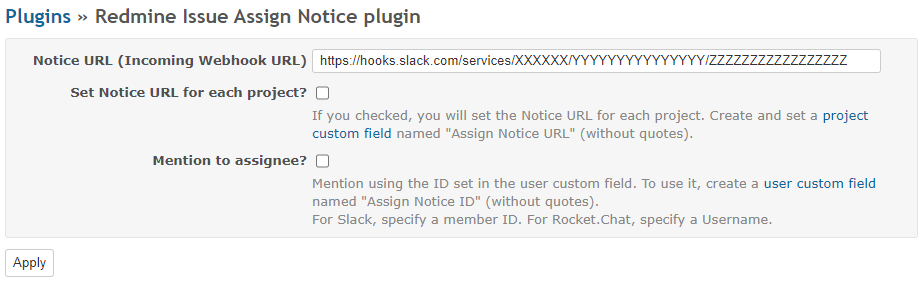
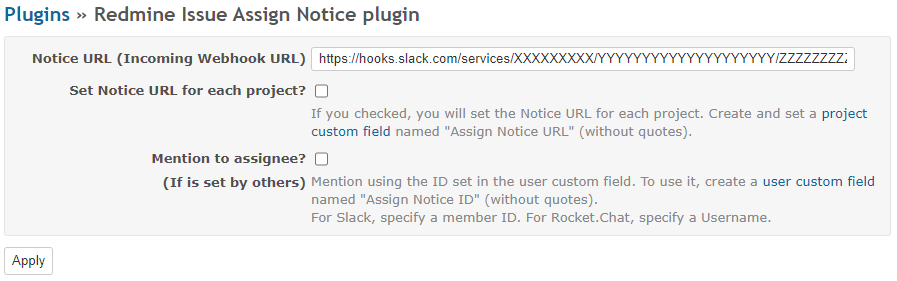
担当者自身で設定した場合はメンションを送らないように変更

diff --git a/lib/redmine_issue_assign_notice/issue_hook_listener.rb b/lib/redmine_issue_assign_notice/issue_hook_listener.rb
@@ -16,7 +16,7 @@ module RedmineIssueAssignNotice
         return
       end
 
-      notice(issue: issue, new_assgined_to: issue.assigned_to, note: issue.description)
+      notice(issue: issue, new_assgined_to: issue.assigned_to, note: issue.description, author: issue.author)
     end
 
     def redmine_issue_assign_notice_change(context={})
@@ -33,12 +33,12 @@ module RedmineIssueAssignNotice
       old_assgined_to = User.find(assign_journal.old_value.to_i) unless assign_journal.old_value.nil?
       new_assgined_to = User.find(assign_journal.value.to_i) unless assign_journal.value.nil?
 
-      notice(issue: issue, old_assgined_to: old_assgined_to, new_assgined_to: new_assgined_to, note: journal.notes)
+      notice(issue: issue, old_assgined_to: old_assgined_to, new_assgined_to: new_assgined_to, note: journal.notes, author: journal.user)
     end
 
     private
 
-    def notice(issue:, old_assgined_to: nil, new_assgined_to:, note:)
+    def notice(issue:, old_assgined_to: nil, new_assgined_to:, note:, author:)
 
       if Setting.plugin_redmine_issue_assign_notice['notice_url_each_project'] == '1'
         notice_url_field = issue.project.custom_field_values.find{ |field| field.custom_field.name == 'Assign Notice URL' }
@@ -51,16 +51,16 @@ module RedmineIssueAssignNotice
         return
       end
 
-      message = create_message(issue, old_assgined_to, new_assgined_to, note, notice_url)
+      message = create_message(issue, old_assgined_to, new_assgined_to, note, author, notice_url)
 
       Rails.logger.debug "IssueHookListener#notice message:#{message}"
 
       @client.notice(message, notice_url)
     end
 
-    def create_message(issue, old_assgined_to, new_assgined_to, note, notice_url)
+    def create_message(issue, old_assgined_to, new_assgined_to, note, author, notice_url)
 
-      message = "#{mention(new_assgined_to, notice_url)}"
+      message = "#{mention(new_assgined_to, author, notice_url)}"
       message << " " if message.length > 0
       message << "Assign changed from #{user_name old_assgined_to} to #{user_name new_assgined_to}"
       message << "\n"
@@ -69,13 +69,17 @@ module RedmineIssueAssignNotice
       message << trimming(note)
     end
 
-    def mention(user, notice_url)
+    def mention(assgined_to, author, notice_url)
 
-      if user.nil? || Setting.plugin_redmine_issue_assign_notice['mention_to_assignee'] != '1'
-        return nil
+      if assgined_to.nil? ||
+         Setting.plugin_redmine_issue_assign_notice['mention_to_assignee'] != '1' ||
+         assgined_to == author
+
+         return nil
       end
 
-      noteice_field = user.custom_field_values.find{ |field| field.custom_field.name == 'Assign Notice ID' }
+
+      noteice_field = assgined_to.custom_field_values.find{ |field| field.custom_field.name == 'Assign Notice ID' }
       if noteice_field.nil? || noteice_field.value.blank?
         return nil
       end

diff --git a/README.ja.md b/README.ja.md
@@ -40,9 +40,9 @@ bundle install --without development test
 
 ![Screenshot of project setting](screenshots/project_setting.png)
 
-### Mention to assignee?
+### Mention to assignee? (If is set by others)
 
-「Mention to assignee?」をチェックすると、担当者となったユーザに対してのメンションをメッセージに含めることができます。  
+「Mention to assignee? (If is set by others)」をチェックすると、担当者となったユーザに対してのメンションをメッセージに含めることができます。ただし、担当者自身で設定したものは通知しません。  
 メンション先のIDは、ユーザのカスタムフィールドの「Assign Notice ID」が利用されます。カスタムフィールドを作成して、各ユーザで設定を行うようにしてください。
 
 ![Screenshot of create user custom field](screenshots/create_user_custom_field.png)
